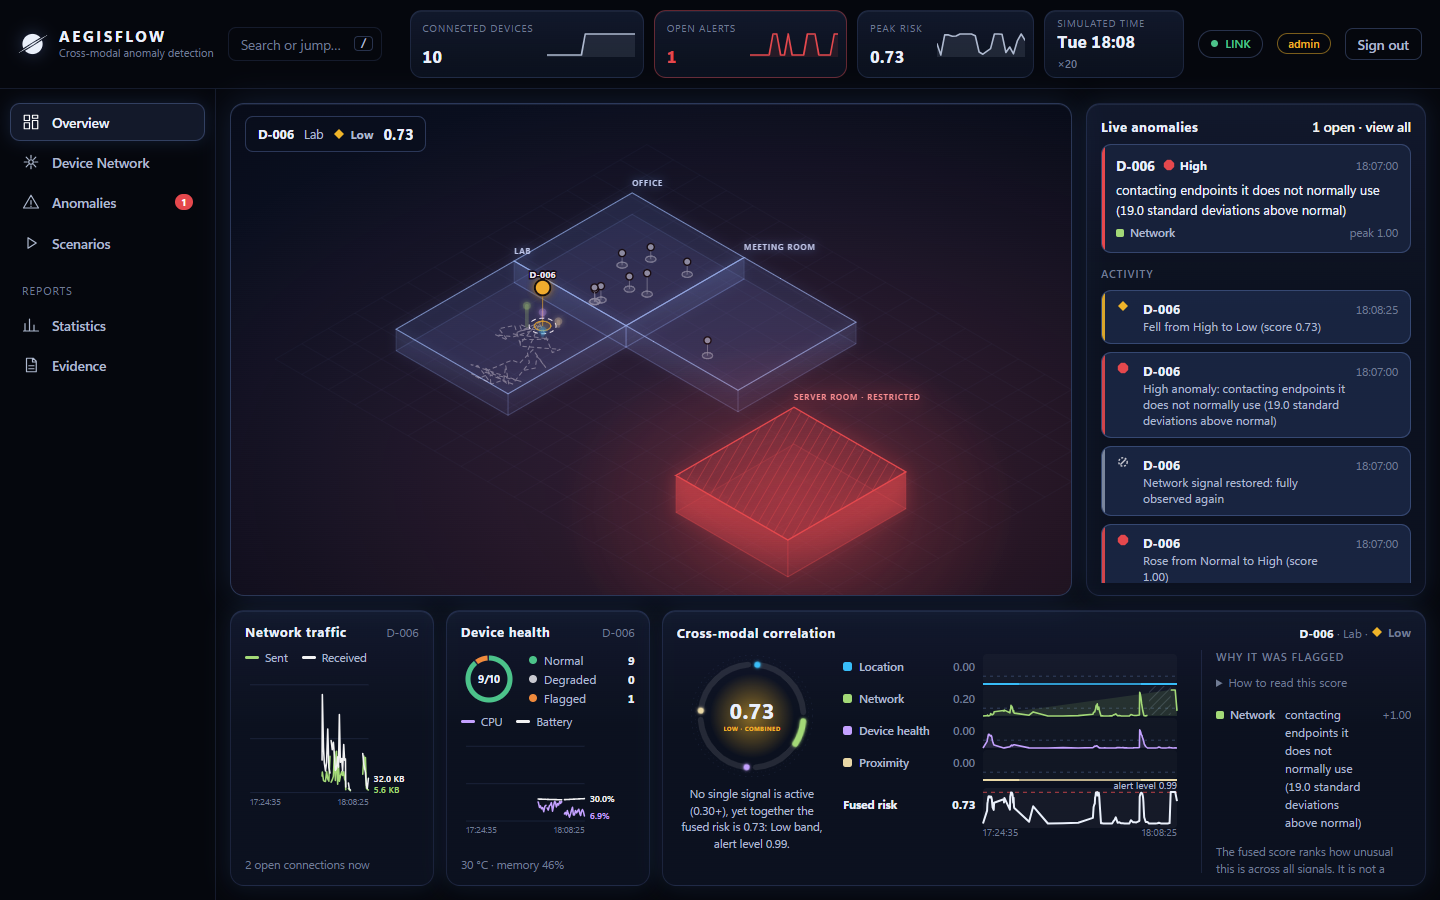
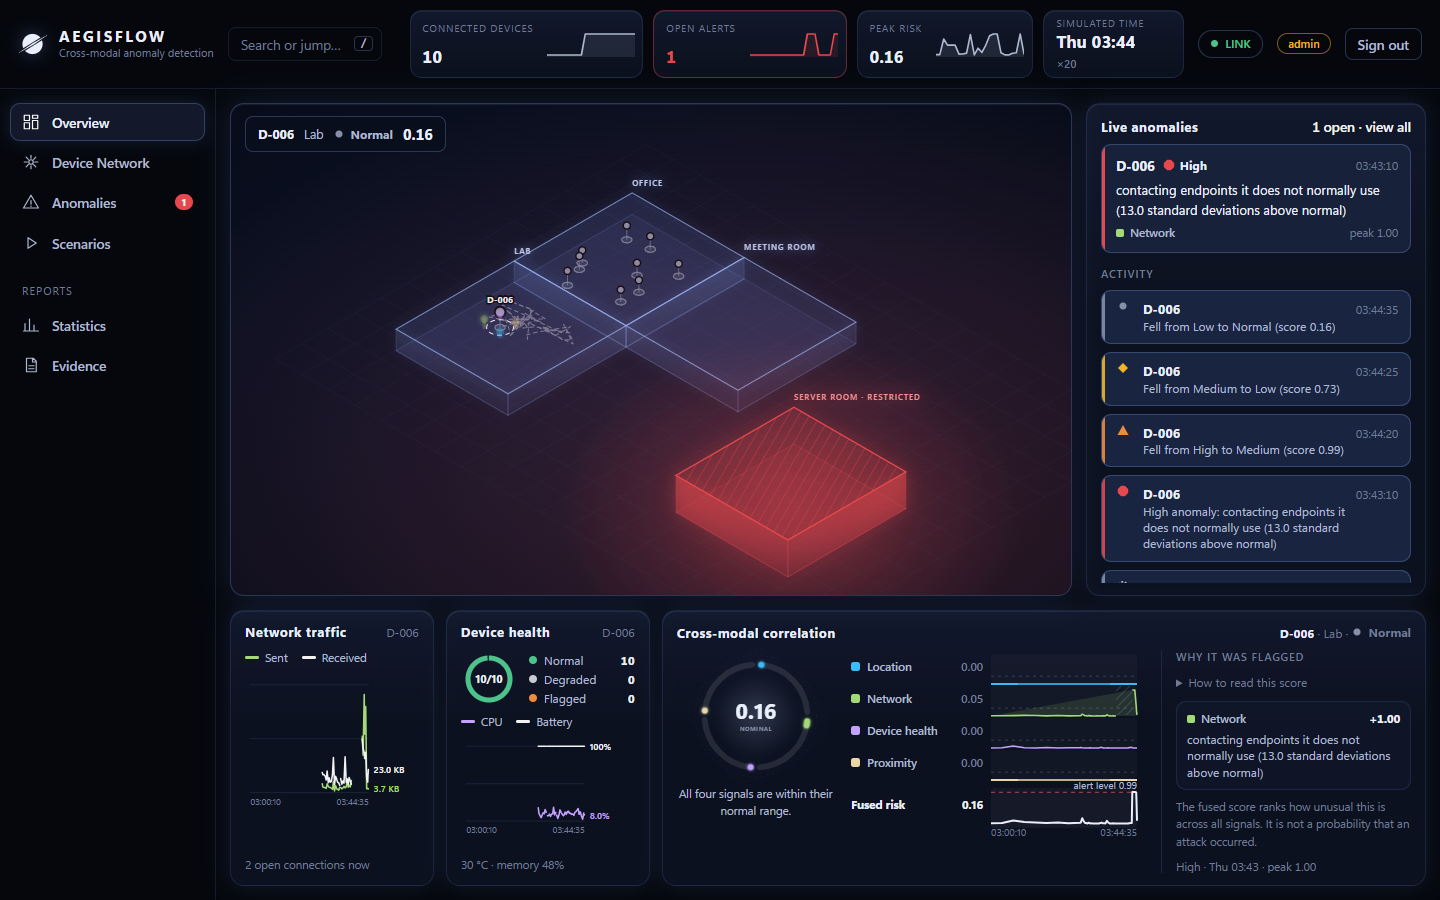
Correlation panel: each reason is a small card with the signal and its contribution on top; README: top bar and fleet ring explained, test count 70; screenshots regenerated

diff --git a/frontend/src/styles.css b/frontend/src/styles.css
@@ -454,3 +454,12 @@ table.data tr.sel td { background: var(--accent-soft); }
 .vol-label { fill: #bcd0f5; }
 .vol.hot { filter: drop-shadow(0 0 2.6px rgba(229, 72, 77, 0.7)); }
 .vol.hot .vol-top { stroke-width: 0.42; }
+
+/* correlation panel: each reason is a small card, the signal and its contribution on top, the words beneath */
+.corr-body { grid-template-columns: 158px minmax(0, 1fr) 250px; }
+.corr-ring svg { filter: drop-shadow(0 0 12px rgba(120, 160, 255, 0.18)); }
+.corr-why ul { display: flex; flex-direction: column; gap: 7px; }
+.corr-why li { grid-template-columns: 1fr auto; gap: 3px 10px; padding: 8px 10px; border: 1px solid var(--line); border-radius: 10px; background: rgba(18, 26, 45, 0.5); }
+.corr-why li .sigchip { grid-column: 1; grid-row: 1; }
+.corr-why li .meta { grid-column: 2; grid-row: 1; font-weight: 650; color: var(--ink); }
+.corr-why li .reason { grid-column: 1 / -1; grid-row: 2; line-height: 1.4; }

diff --git a/README.md b/README.md
@@ -64,6 +64,8 @@ independent sessions) stopped at pre-registered gates, the last one because the 
 
 **Reading the score.** The dashboard shows a severity band (Normal, Low, Medium, High) and an alert as two different things. The band follows the fused score; an alert opens at the alert level once a device has finished learning and closes only after 60 s below the clear level, so a device can read Normal while its alert is still open. The ring says `LOW · COMBINED` (not NOMINAL) when weak signals add up to a non-Normal band, and a collapsible "How to read this score" panel explains the rules.
 
+**Reading the top bar and panels.** The four cards in the top bar (connected devices, open alerts, peak risk, and the clock) show the number now and, for the first three, a small trend over the last 30 simulated minutes, drawn only from data the dashboard already holds. The clock is labelled **Simulated time** with its speed (for example x20) because the demo fleet runs faster than real time. The ring in Device health counts each device once as **Normal, Degraded or Flagged**; it never says "healthy", because a quiet score on a device with missing signals says nothing about the signals it cannot see.
+
 ## Run it (Docker)
 
 ```powershell
@@ -120,7 +122,7 @@ $env:AEGIS_ADMIN_TOKEN  = "choose-a-long-admin-token"     # at least 16 characte
 $env:AEGIS_VIEWER_TOKEN = "choose-a-long-viewer-token"
 .\.venv\Scripts\python -m uvicorn --factory backend.api.app:create_app --port 8010
 cd frontend; npm install; npm run dev                     # http://localhost:5173, proxies /api to the API
-npm test                                                  # 66 unit and component tests
+npm test                                                  # 70 unit and component tests
 ```
 
 Checks that drive the real system (with the stack running; they need `pip install playwright`, which uses the installed Edge):
